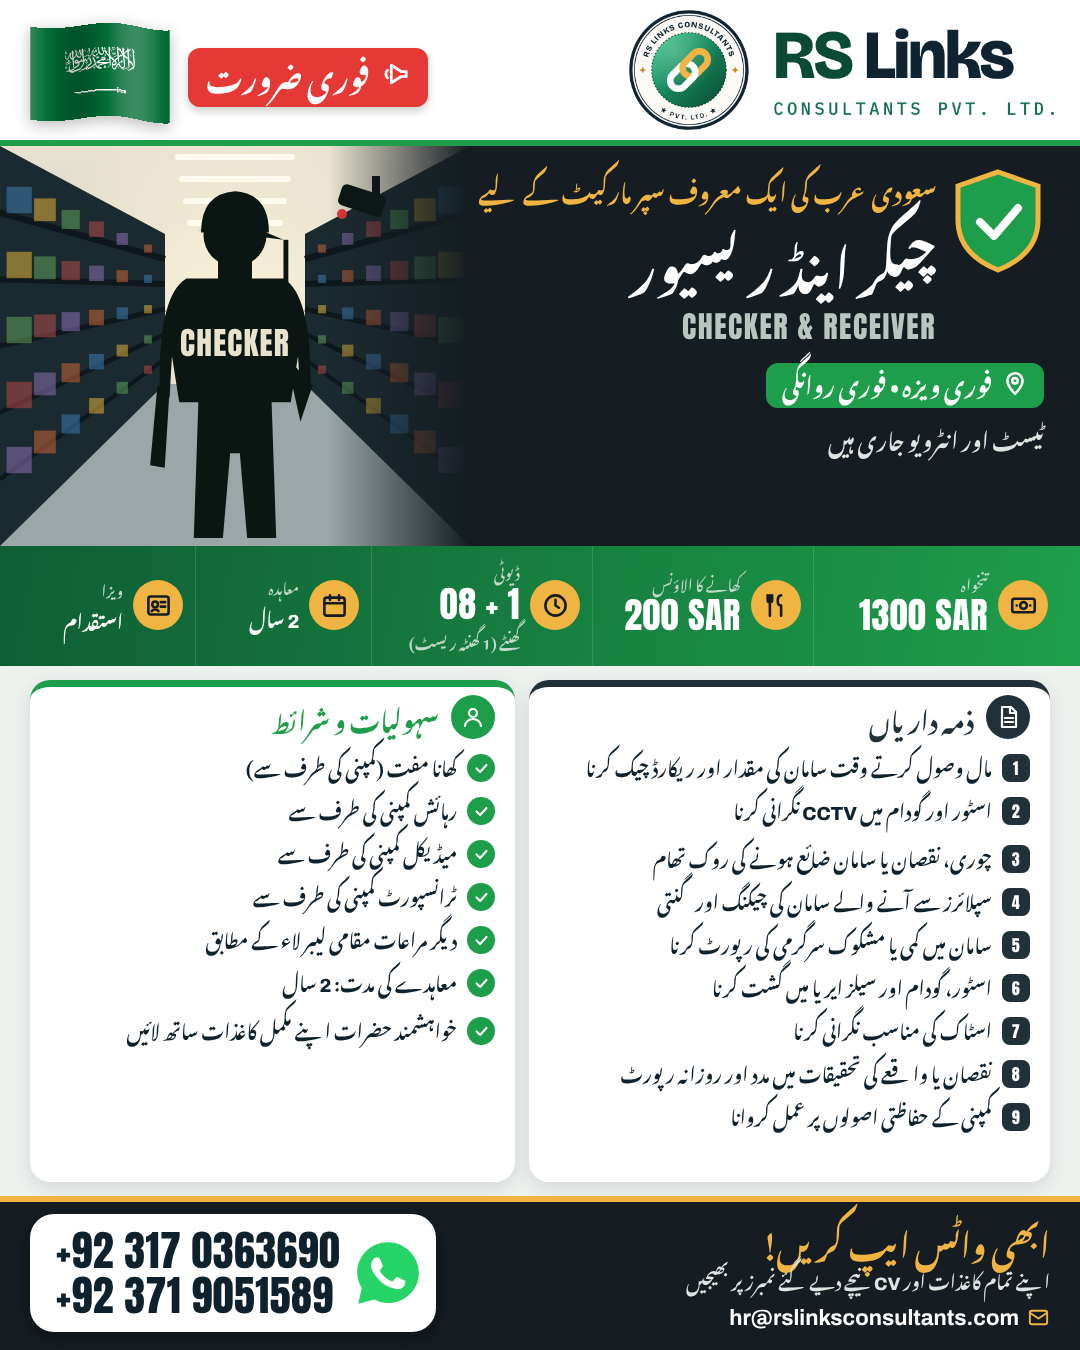
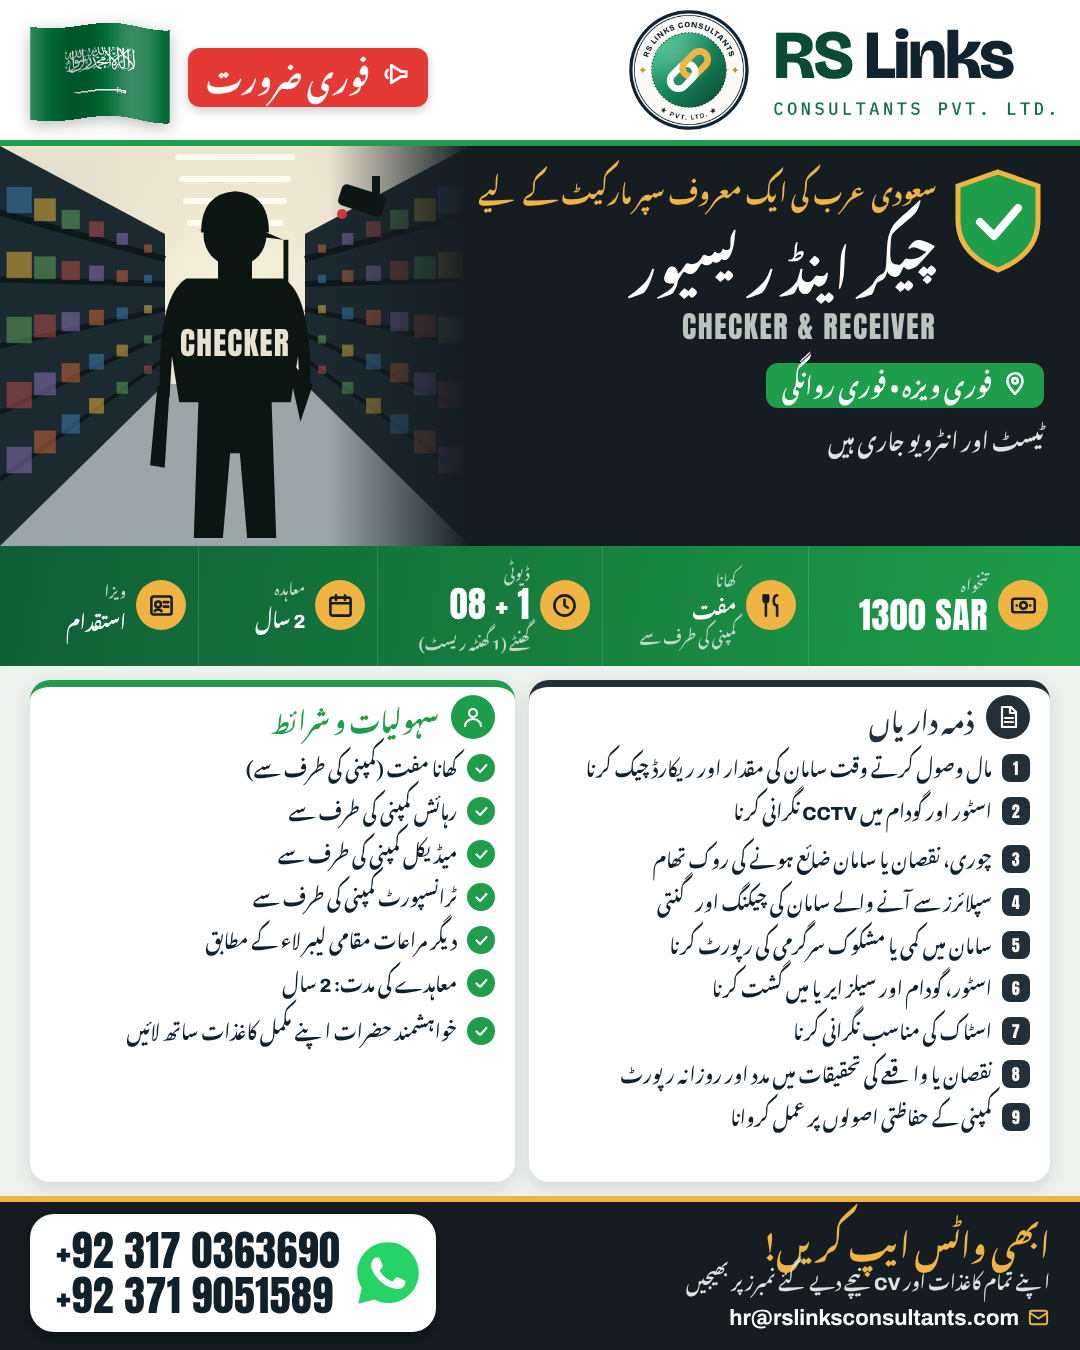
Checker & Receiver ad: food free replaces 200 SAR food allowance
Claude-Session: https://claude.ai/code/session_01YJ5ofgU8QCiWTsYR9pvXG4

diff --git a/src/data/saudi_checker_receiver.py b/src/data/saudi_checker_receiver.py
@@ -1,6 +1,6 @@
 """Demand 2026-10-14: Saudi Arabia — Checker & Receiver for a well-known super market
 (demands/2026-10-14-saudi-checker-receiver/ref.jpg; employer name omitted per ad rules).
-Facts: urgent visa · immediate departure · salary 1300 + 200 riyal (food) · duty 08 hours + 1 hour rest ·
+Facts: urgent visa · immediate departure · salary 1300 riyal; food free (user 2026-10-14, replaces the 200 riyal food line) · duty 08 hours + 1 hour rest ·
 visa: Istiqdam · contract 2 years · accommodation, medical, transport by company · other benefits per
 local labour law · bring complete documents · test & interview ongoing · WhatsApp documents + CV.
 Duties as listed in the source. No post count / age in source. Urdu only."""
@@ -25,7 +25,7 @@ DATA = {
         "where": "فوری ویزہ • فوری روانگی",
         "opener": "ٹیسٹ اور انٹرویو جاری ہیں",
         "tiles": [("money", "تنخواہ", "1300 SAR", True, 36, "", 1.25),
-                  ("food", "کھانے کا الاؤنس", "200 SAR", True, 36, "", 1.1),
+                  ("food", "کھانا", "مفت", False, 0, "کمپنی کی طرف سے", 1.0),
                   ("clock", "ڈیوٹی", "08 + 1", True, 36, "گھنٹے (1 گھنٹہ ریسٹ)", 1.1),
                   ("calendar", "معاہدہ", f"{N(2)} سال", False, 0, "", .85),
                   ("visa", "ویزا", "استقدام", False, 0, "", .85)],
